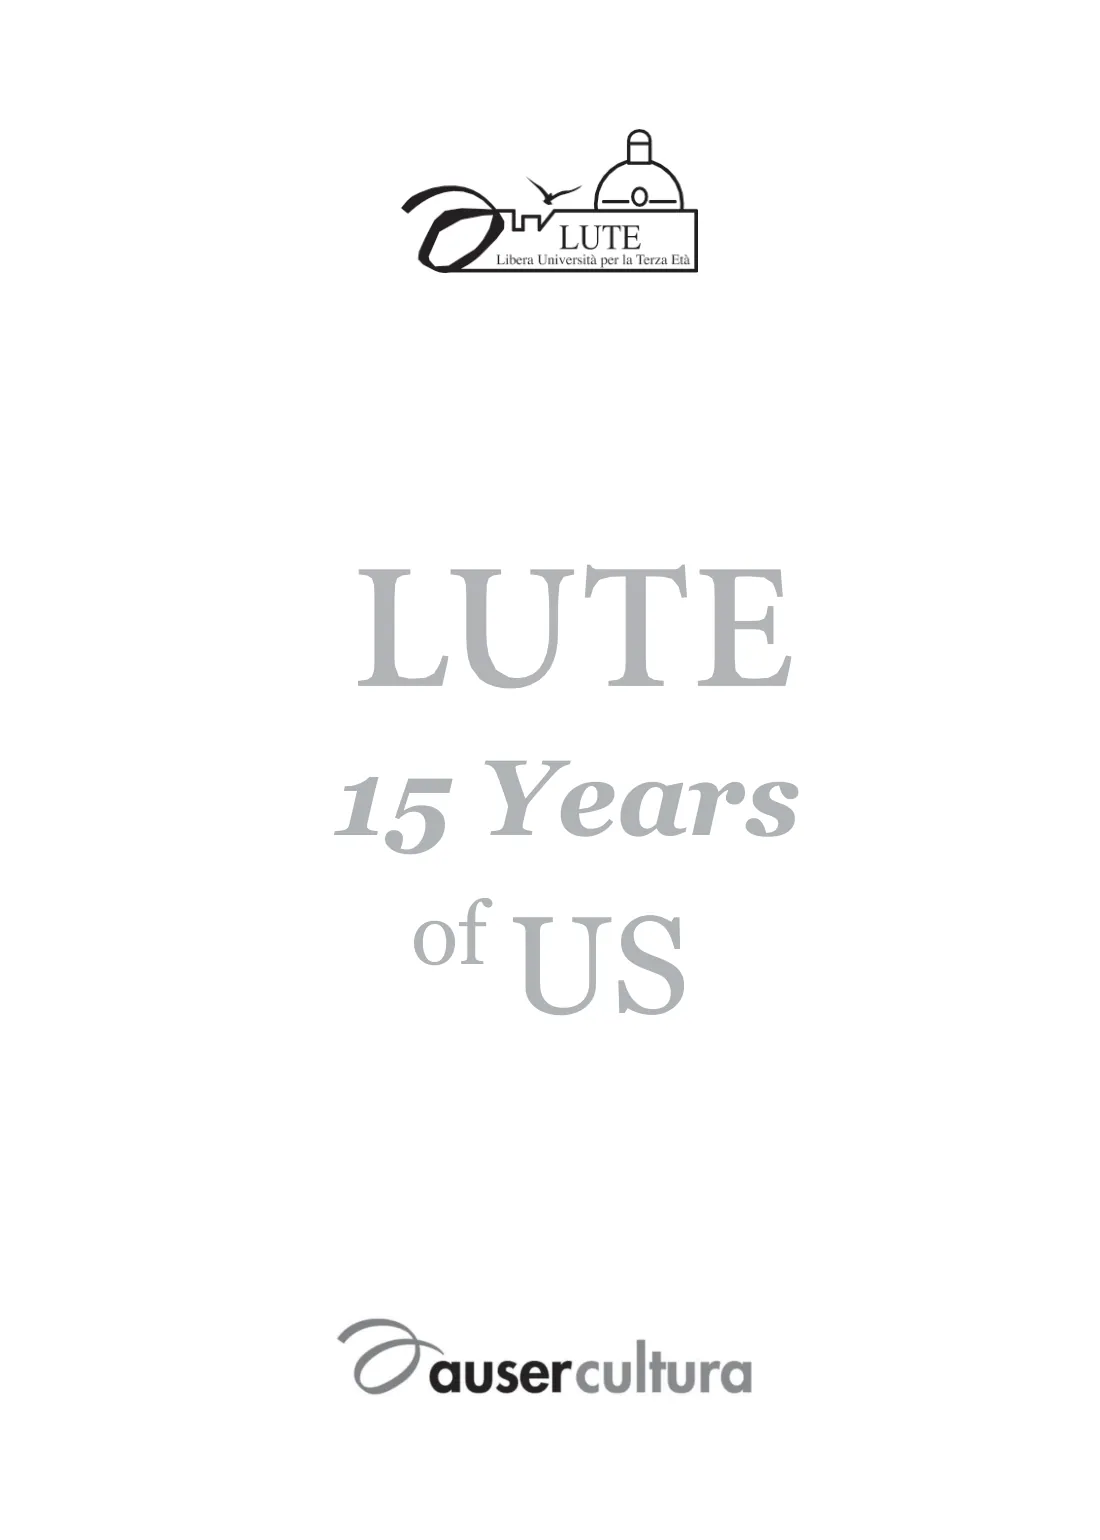
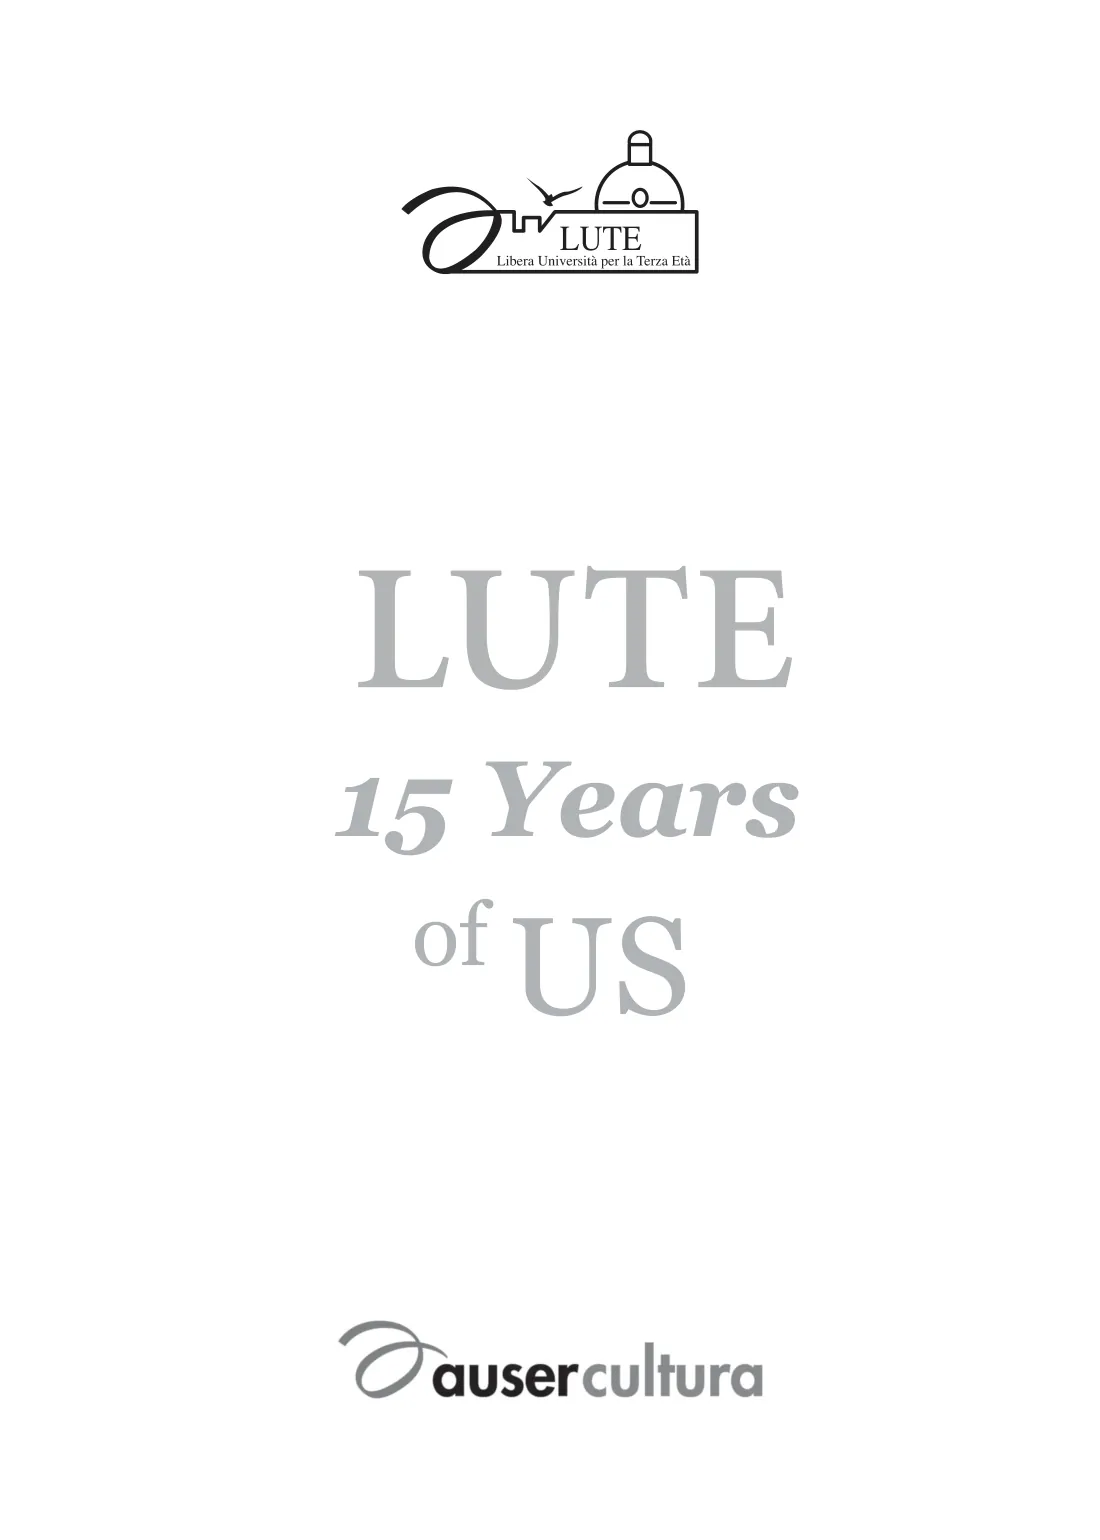
Edizione inglese: copertina, frontespizio e pagina delle sedi rifatti dalle pagine italiane (sfondo crema, nomi dei paesi corretti, titoli in inglese)

diff --git a/app.js b/app.js
@@ -35,7 +35,7 @@
     }
   };
   var ZOOM = [520, 640, 760, 900, 1050, 1200];
-  var VERSIONE_PAGINE = 2;   // da aumentare quando si rifanno le immagini delle pagine
+  var VERSIONE_PAGINE = 3;   // da aumentare quando si rifanno le immagini delle pagine
 
   var libro = document.getElementById('libro');
   var elenco = document.getElementById('elenco');

diff --git a/index.html b/index.html
@@ -80,6 +80,6 @@
 
   <script src="dati.js?v=2"></script>
   <script src="dati-en.js?v=2"></script>
-  <script src="app.js?v=5"></script>
+  <script src="app.js?v=6"></script>
 </body>
 </html>

diff --git a/titolo_inglese.py b/titolo_inglese.py
@@ -1,57 +1,80 @@
-# Copertina e frontespizio dell'edizione inglese: nel PDF il titolo è rimasto in italiano ("15 anni di NOI", disegnato
-# a tracciati). Qui si cancellano "15 anni" e "di NOI" (si tiene "LUTE") e si scrive "15 Years of US" con lo stesso colore.
-# Usato da crea_pagine_en.py prima di creare le immagini (il PDF originale non viene modificato).
+# Prime pagine dell'edizione inglese, rifatte partendo da quelle italiane (che sono corrette):
+#  - pag. 1 copertina e pag. 2 frontespizio: nel PDF inglese lo sfondo della copertina è grigio invece che crema
+#    e il titolo è rimasto "15 anni di NOI". Si prende la pagina italiana, si cancellano "15 anni" e "di NOI"
+#    (disegnati a tracciati; si tiene "LUTE") e si scrive "15 Years of US" con lo stesso colore.
+#  - pag. 4 "Le sedi della LUTE": nel PDF inglese i nomi nei cerchi sono storpiati (es. "SAINT HIPPUS DEL MELA").
+#    Si prende la pagina italiana (i nomi dei paesi restano in italiano) e si traduce solo l'intestazione.
+# Usato da crea_pagine_en.py. I PDF originali non vengono modificati.
 import pymupdf
 
+PDF_IT = r"C:\Users\Filippo\Desktop\Libro Lute..pdf"
 FONT_CORSIVO = r"C:\Windows\Fonts\georgiaz.ttf"   # Georgia grassetto corsivo, simile a "15 anni"
 FONT_TONDO = r"C:\Windows\Fonts\georgia.ttf"       # Georgia, simile a "di NOI"
+FONT_INTESTAZIONE = r"C:\Windows\Fonts\times.ttf"  # come "LE SEDI DELLA LUTE"
 
-# per pagina: zona da cancellare, colore, posizione delle due righe (x sinistra, x destra, linea di base, altezza)
-PAGINE = {
+# copertina e frontespizio: zona da cancellare, colore, righe (x sinistra, x destra, linea di base, altezza maiuscole)
+TITOLO = {
     1: {"cancella": (110, 205, 318, 338), "colore": (0.341, 0.220, 0.110),
         "riga2": (127, 309, 260, 44), "riga3": (116, 305, 335, 53)},
     2: {"cancella": (120, 276, 312, 396), "colore": (0.694, 0.702, 0.714),
         "riga2": (136, 303, 323, 41), "riga3": (126, 300, 392, 50)},
 }
+# pagina delle sedi: intestazione (nell'immagine) da coprire e riscrivere
+SEDI = {"pagina": 4, "copri": (85, 62, 340, 90), "testo": "THE VENUES OF LUTE", "base": 83, "altezza": 15,
+        "colore": (0.19, 0.18, 0.185)}
 
-def scrivi(page, testo, fontfile, nome, x0, x1, base, altezza, colore):
-    # dimensione tale che le maiuscole siano alte come quelle originali, centrato fra x0 e x1
+def scrivi_centrato(page, testo, fontfile, nome, x0, x1, base, altezza, colore, allarga=1.08):
     f = pymupdf.Font(fontfile=fontfile)
     size = altezza / f.ascender * 0.98
     larg = f.text_length(testo, fontsize=size)
-    if larg > (x1 - x0) * 1.08:
-        size *= (x1 - x0) * 1.08 / larg
+    if larg > (x1 - x0) * allarga:
+        size *= (x1 - x0) * allarga / larg
         larg = f.text_length(testo, fontsize=size)
-    x = (x0 + x1) / 2 - larg / 2
-    page.insert_text((x, base), testo, fontsize=size, fontname=nome, fontfile=fontfile, color=colore)
+    page.insert_text(((x0 + x1) / 2 - larg / 2, base), testo, fontsize=size, fontname=nome, fontfile=fontfile, color=colore)
 
-def titolo_inglese(doc):
-    for n, c in PAGINE.items():
-        p = doc[n - 1]
-        p.add_redact_annot(pymupdf.Rect(*c["cancella"]))
-        p.apply_redactions(images=pymupdf.PDF_REDACT_IMAGE_NONE,
-                           graphics=pymupdf.PDF_REDACT_LINE_ART_REMOVE_IF_TOUCHED, text=pymupdf.PDF_REDACT_TEXT_REMOVE)
-        x0, x1, base, alt = c["riga2"]
-        scrivi(p, "15 Years", FONT_CORSIVO, "corsivo", x0, x1, base, alt, c["colore"])
-        # "of US": "of" piccolo come "di", "US" grande come "NOI"
-        x0, x1, base, alt = c["riga3"]
-        fo, fu = pymupdf.Font(fontfile=FONT_TONDO), pymupdf.Font(fontfile=FONT_TONDO)
-        s_of, s_us = alt * 0.62 / fo.ascender, alt / fu.ascender * 0.98
-        l_of, l_us = fo.text_length("of ", fontsize=s_of), fu.text_length("US", fontsize=s_us)
-        x = (x0 + x1) / 2 - (l_of + l_us) / 2
-        p.insert_text((x, base - alt * 0.38), "of", fontsize=s_of, fontname="tondo", fontfile=FONT_TONDO, color=c["colore"])
-        p.insert_text((x + l_of, base), "US", fontsize=s_us, fontname="tondo", fontfile=FONT_TONDO, color=c["colore"])
+def titolo(p, c):
+    p.add_redact_annot(pymupdf.Rect(*c["cancella"]))
+    p.apply_redactions(images=pymupdf.PDF_REDACT_IMAGE_NONE,
+                       graphics=pymupdf.PDF_REDACT_LINE_ART_REMOVE_IF_TOUCHED, text=pymupdf.PDF_REDACT_TEXT_REMOVE)
+    x0, x1, base, alt = c["riga2"]
+    scrivi_centrato(p, "15 Years", FONT_CORSIVO, "corsivo", x0, x1, base, alt, c["colore"])
+    # "of US": "of" piccolo e rialzato come "di", "US" grande come "NOI"
+    x0, x1, base, alt = c["riga3"]
+    f = pymupdf.Font(fontfile=FONT_TONDO)
+    s_of, s_us = alt * 0.62 / f.ascender, alt / f.ascender * 0.98
+    l_of, l_us = f.text_length("of ", fontsize=s_of), f.text_length("US", fontsize=s_us)
+    x = (x0 + x1) / 2 - (l_of + l_us) / 2
+    p.insert_text((x, base - alt * 0.38), "of", fontsize=s_of, fontname="tondo", fontfile=FONT_TONDO, color=c["colore"])
+    p.insert_text((x + l_of, base), "US", fontsize=s_us, fontname="tondo", fontfile=FONT_TONDO, color=c["colore"])
+
+def pagine_iniziali_en():
+    """Restituisce {numero di pagina: pagina pronta} per le pagine iniziali dell'edizione inglese."""
+    it = pymupdf.open(PDF_IT)
+    doc = pymupdf.open()
+    numeri = [1, 2, SEDI["pagina"]]
+    for n in numeri:
+        doc.insert_pdf(it, from_page=n - 1, to_page=n - 1)
+    pagine = {n: doc[k] for k, n in enumerate(numeri)}
+    for n, c in TITOLO.items():
+        titolo(pagine[n], c)
+    p = pagine[SEDI["pagina"]]
+    p.draw_rect(pymupdf.Rect(*SEDI["copri"]), color=None, fill=(1, 1, 1))
+    x0, _, x1, _ = SEDI["copri"]
+    scrivi_centrato(p, SEDI["testo"], FONT_INTESTAZIONE, "times", x0, x1, SEDI["base"], SEDI["altezza"], SEDI["colore"], 0.95)
+    pagine["_doc"] = doc   # tiene vivo il documento finché servono le pagine
+    return pagine
 
 if __name__ == "__main__":
-    # prova: crea anteprima_titolo.png con le due pagine
+    # prova: crea anteprima-pagine-iniziali-en.png
     from PIL import Image
-    d = pymupdf.open(r"C:\Users\Filippo\Desktop\Book 15 Years Lute.pdf")
-    titolo_inglese(d)
+    pg = pagine_iniziali_en()
     ims = []
-    for n in (1, 2):
-        pix = d[n - 1].get_pixmap(dpi=110)
+    for n in (1, 2, 4):
+        pix = pg[n].get_pixmap(dpi=100)
         ims.append(Image.frombytes("RGB", (pix.width, pix.height), pix.samples))
-    f = Image.new("RGB", (ims[0].width + ims[1].width + 10, max(i.height for i in ims)), "white")
-    f.paste(ims[0], (0, 0)); f.paste(ims[1], (ims[0].width + 10, 0))
-    f.save("anteprima_titolo.png")
-    print("anteprima_titolo.png")
+    f = Image.new("RGB", (sum(i.width for i in ims) + 20, max(i.height for i in ims)), "white")
+    x = 0
+    for i in ims:
+        f.paste(i, (x, 0)); x += i.width + 10
+    f.save("anteprima-pagine-iniziali-en.png")
+    print("anteprima-pagine-iniziali-en.png")

diff --git a/crea_pagine_en.py b/crea_pagine_en.py
@@ -14,13 +14,14 @@ PAGINE_INDICE = range(6, 11)
 PRIMA_PAGINA_TESTO = 12
 
 d = pymupdf.open(PDF)
-from titolo_inglese import titolo_inglese
-titolo_inglese(d)   # copertina e frontespizio: "15 anni di NOI" -> "15 Years of US"
+from titolo_inglese import pagine_iniziali_en
+rifatte = pagine_iniziali_en()   # pagg. 1, 2, 4 rifatte dalle italiane (vedi titolo_inglese.py)
 
 cartella = os.path.join(QUI, "pagine-en")
 os.makedirs(cartella, exist_ok=True)
 dimensioni = []
 for i, p in enumerate(d):
+    p = rifatte.get(i + 1, p)
     z = LARGHEZZA / p.rect.width
     pix = p.get_pixmap(matrix=pymupdf.Matrix(z, z))
     Image.frombytes("RGB", (pix.width, pix.height), pix.samples).save(

diff --git a/CLAUDE.md b/CLAUDE.md
@@ -13,7 +13,7 @@ App HTML-CSS-JS (statica, senza librerie) per leggere online il libro "LUTE · 1
 - Selettore **IT | EN** nella barra in alto. Lingua: `?lang=en` nell'indirizzo, poi quella scelta e salvata (`localStorage libro_lute_lingua`), poi quella del telefono (italiano → IT, altrimenti EN).
 - Il libro inglese è un PDF a parte fornito dall'utente: `C:\Users\Filippo\Desktop\Book 15 Years Lute.pdf` (217 pagine). `python crea_pagine_en.py` crea `pagine-en/` e `dati-en.js`.
 - ⚠ I numeri di pagina dell'indice stampato inglese sono COPIATI da quello italiano e non corrispondono al PDF inglese (i capitoli cadono più avanti; anche i numeri in testa alle pagine hanno salti). Lo script trova l'inizio dei capitoli dalle pagine con il titolo in caratteri grandi (48 = 48 voci, controllato). Nell'app, in entrambe le lingue, "pagina N" = pagina N+1 del PDF.
-- **Copertina e frontespizio inglesi** (2026-10-28): nel PDF inglese il titolo era rimasto "15 anni di NOI" (disegnato a tracciati). `titolo_inglese.py`, chiamato da crea_pagine_en.py, cancella "15 anni" e "di NOI" (tiene "LUTE") e scrive "15 Years of US" con lo stesso colore (Georgia). Il PDF originale non viene modificato. `VERSIONE_PAGINE` in app.js va aumentata quando si rifanno le immagini.
+- **Prime pagine inglesi rifatte dalle italiane** (2026-10-28): nel PDF inglese la copertina ha lo sfondo grigio invece che crema, il titolo era rimasto "15 anni di NOI" e nei cerchi di pag. 4 ("The venues of the LUTE") i nomi dei paesi erano storpiati ("SAINT HIPPUS DEL MELA", "SPA DAFORA"...). `titolo_inglese.py` (usato da crea_pagine_en.py) prende le pagg. 1, 2 e 4 del PDF italiano: sulle prime due cancella "15 anni" e "di NOI" e scrive "15 Years of US" (Georgia, stesso colore); sulla 4 copre l'intestazione e scrive "THE VENUES OF LUTE" (Times); i nomi dei paesi restano in italiano. I PDF non vengono modificati. `VERSIONE_PAGINE` in app.js va aumentata quando si rifanno le immagini.
 - Cambiando lingua si resta nello stesso capitolo, alla stessa distanza dal suo inizio.
 - **Arrivo dal sito Erasmus → sito LUTE → menu Documenti (2026-10-28, richiesta dell'utente; NON toccare il sito Erasmus né lutemilazzo.org):**
   - lingua Erasmus diversa dall'italiano: il sito LUTE è tradotto da Google e anche il libro si apre dentro il traduttore (`pxh2407-github-io.translate.goog/libro-lute/?_x_tr_tl=pl`). Uno script in testa a index.html esce dal traduttore e apre `https://pxh2407.github.io/libro-lute/?lang=en` (o `?lang=it` se la traduzione era verso l'italiano);
